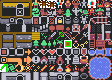
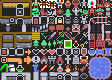
Update item art
-still need a mantis

Changed region(s): [[0.0, 0.8, 0.375, 0.9]]

diff --git a/main.js b/main.js
@@ -196,8 +196,8 @@
 
     //bug list for win screen
     if (game.currentBug === "") {
-      game.listOfBugs = ["earwig", "fly", "termite", "mantis", "spider"];
-      game.listOfItems = ["pincer", "wings", "acid", "mantisClaws", "silk"];
+      game.listOfBugs = ["earwig", "fly", "termite", "mantis", "beetle"];
+      game.listOfItems = ["pincer", "wings", "acid", "mantisClaws", "horn"];
     }
 
     // kick everything off
@@ -221,6 +221,7 @@
 
     //clear classes on the bug img
     clearBug();
+    clearItem();
 
     // tear everything down and
     // reset all our variables back
@@ -753,12 +754,15 @@
 
   function clearBug() {
     const el = $("#bug");
-    const it = $("#item");
     if (Game.currentBug !== "") {
       el.classList.remove(Game.currentBug);
     }
+  }
+
+  function clearItem(){
+    const el = $("#item");
     if(Game.currentItem !== ""){
-      it.classList.remove(Game.currentItem);
+      el.classList.remove(Game.currentItem);
     }
   }
 
@@ -771,26 +775,9 @@
 
     var itemIndex = Game.listOfBugs.indexOf(Game.currentBug);
     var newItem = Game.listOfItems[Game.listOfBugs.indexOf(Game.currentBug)];
+    Game.currentItem = newItem;
 
-    //TODO when all items are decided
-    if (newItem === "mantisClaws") {
-      el.classList.add(newItem);
-    } else {
-      switch (newItem) {
-        case "pincer":
-          el.classList.add("item2");
-          break;
-        case "wings":
-          el.classList.add("item3");
-          break;
-        case "acid":
-          el.classList.add("item4");
-          break;
-        case "silk":
-          el.classList.add("item5");
-          break;
-      }
-    }
+    el.classList.add(newItem);
   }
 
   // this gets called when the player clears a stage
@@ -1282,6 +1269,8 @@
       $("#arrows").style.display = "block";
       Game.touchScreen = true;
     }
+    clearBug();
+    clearItem();
     init(Game);
   }
 

diff --git a/style.css b/style.css
@@ -280,7 +280,7 @@ a:hover {
 .mantis{
   content: url(mr.flea.png);
 }
-.spider{
+.beetle{
   content: url(blue.png);
   transform: scale(25);
 }
@@ -335,16 +335,16 @@ a:hover {
 .mantisClaws {
   background-position: -0px -64px;
 }
-.item2 {
+.wings {
   background-position: -8px -64px;
 }
-.item3 {
+.acid {
   background-position: -16px -64px;
 }
-.item4 {
+.pincer {
   background-position: -24px -64px;
 }
-.item5 {
+.horn {
   background-position: -32px -64px;
 }
 
